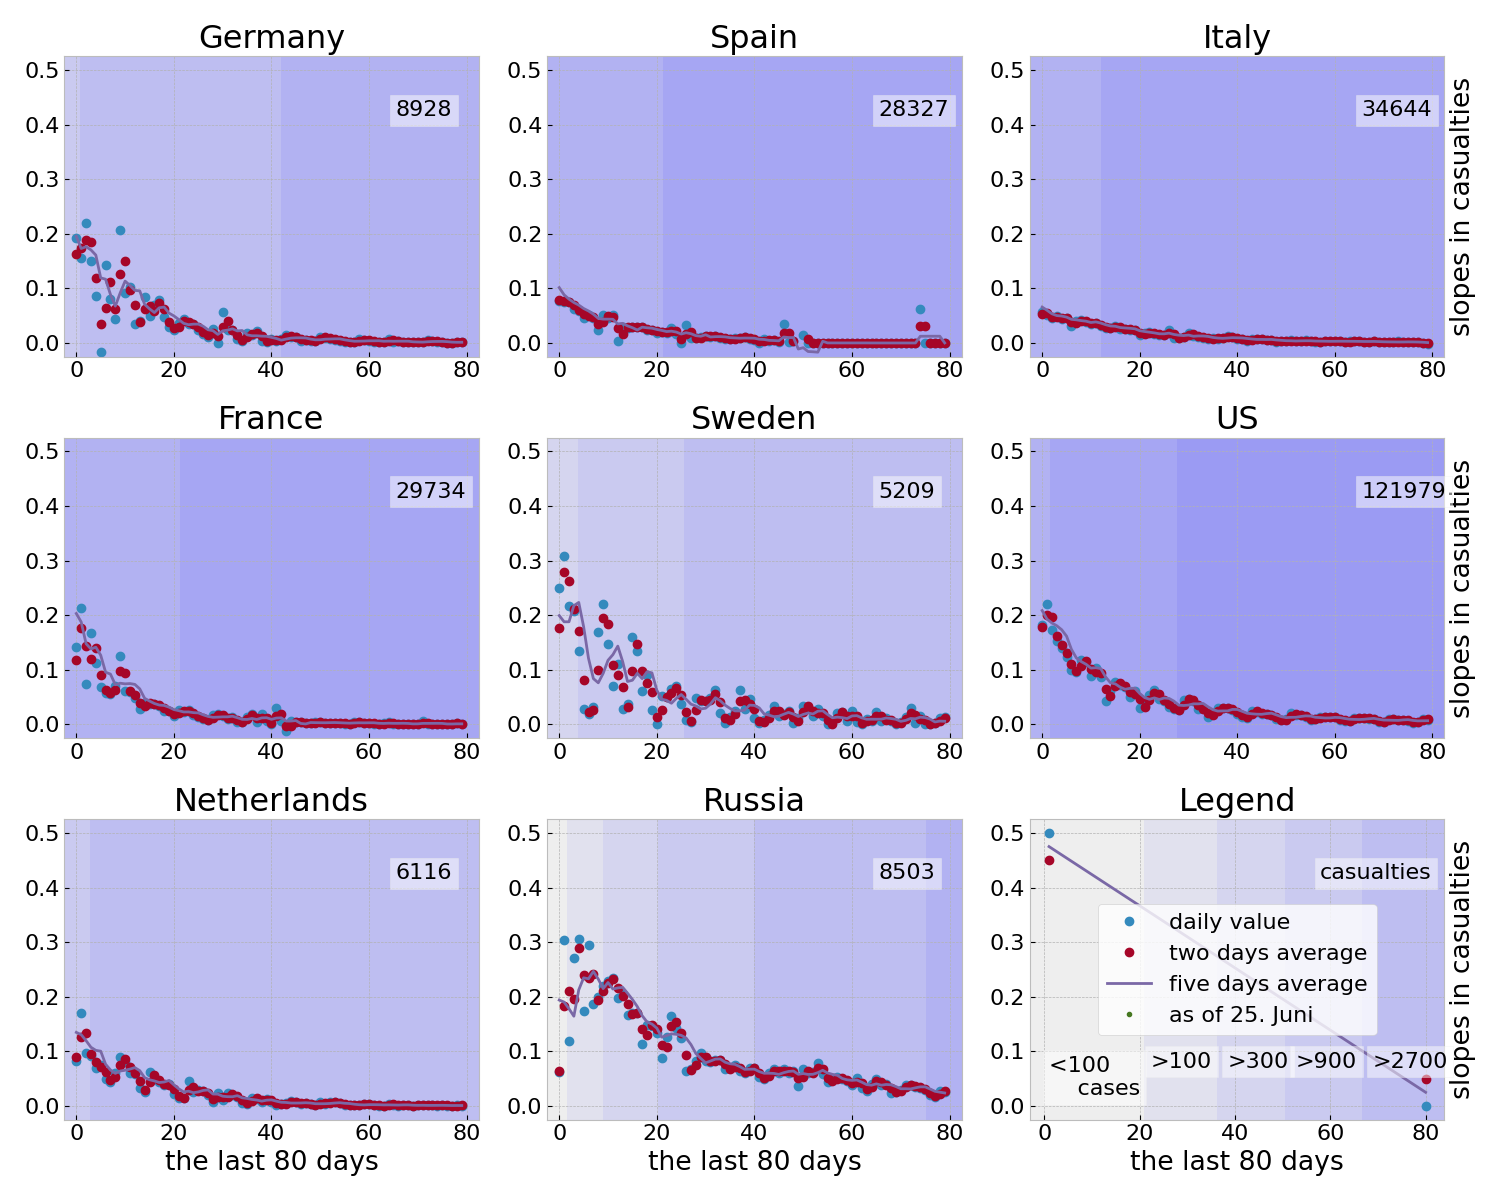
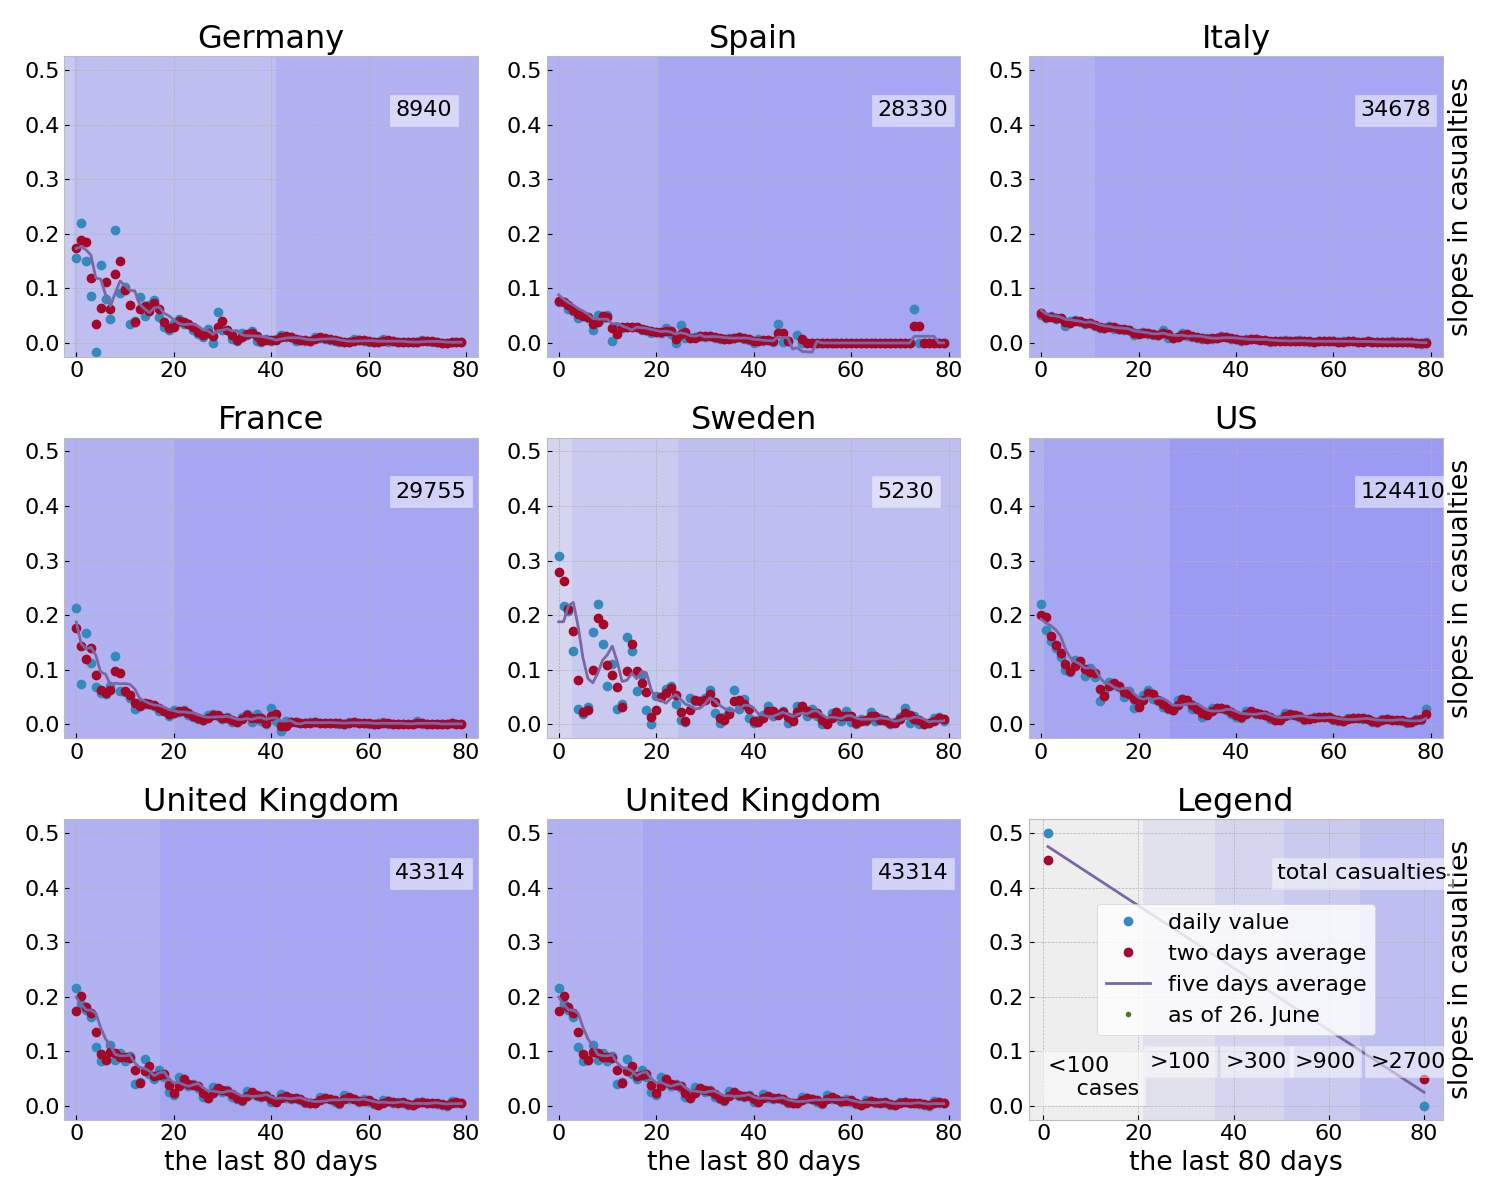
last 30 days covid slopes

diff --git a/content/post/covid-19-trends/index.md b/content/post/covid-19-trends/index.md
@@ -179,7 +179,21 @@ The plots are updated every day.
    phase of exponential growth if compared to Spain) 
  * And the starting points are different which gives a hint on when the outbreak
    became visible in the different countries.
+
+## The last 30 days
+
+Since we look at the relative growth, so called *saturation effects* will make
+changes less visible. This happens in particular, with a high number of
+casualties but a low number of active cases. In the long run, exponential growth
+will still be visible, but also the short term dynamics are of interest. For
+example to spot the start of a *second wave*.
+
+That's why the following plots consider the daily numbers for the last 40 days
+(leaving aside all cases that happened before)
+and show the logarithmic slopes and the casualties for the last 30 days. 
  
+{{< figure src="lmslps-dsifc.png" title="The slopes of a logarithmic plot of the accumulated casualties (counting from 40 days ago) for a number of countries and the total numbers for the last month.  The first 5 countries are always shown. The other 3 countries change occasionally. See the [pdf](lmslps-dsifc.pdf) for all countries." lightbox="true" >}}
+
 # Notes and Acknowledgements
 
 ### On the data
